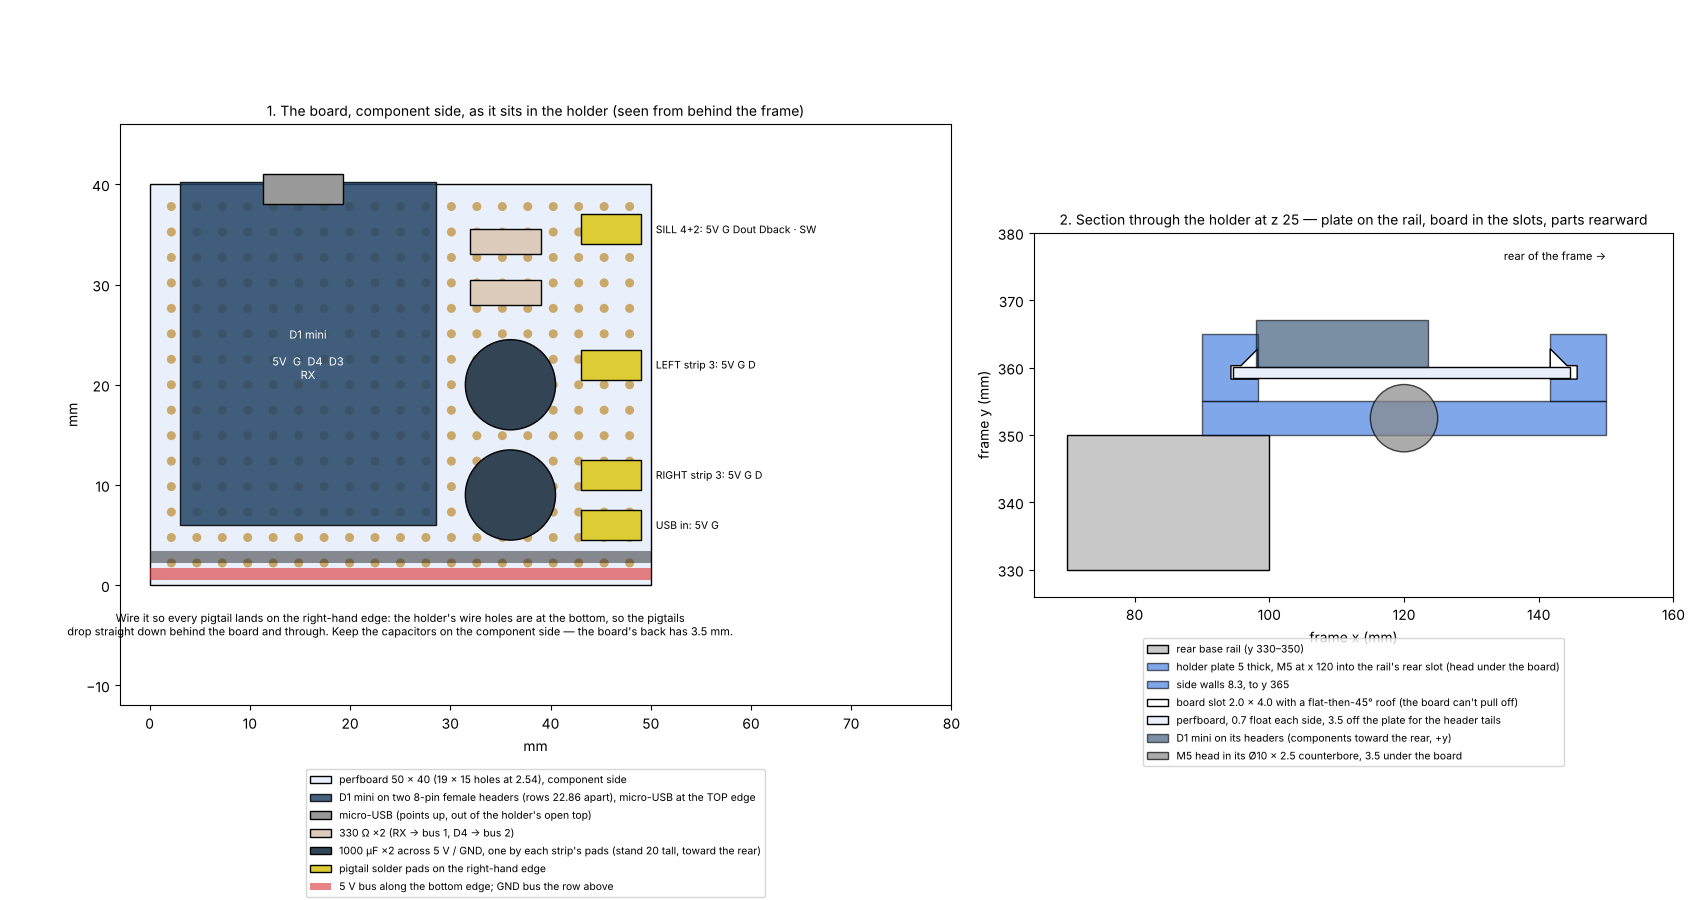
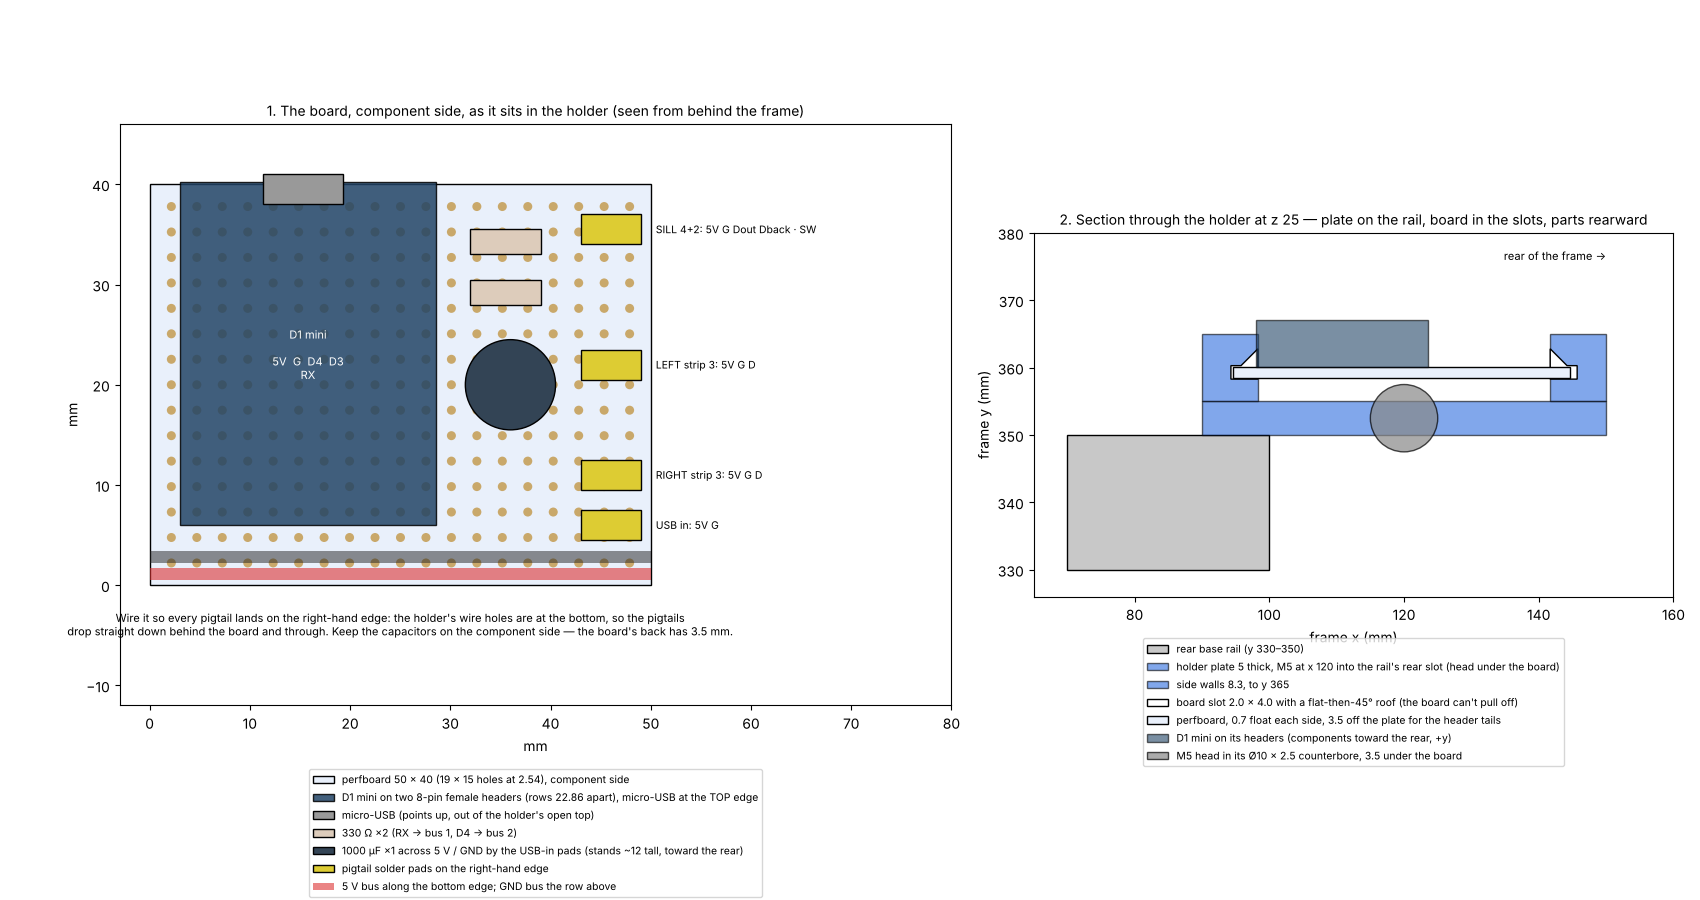
Wiring v1.1: two sill pixels (bus 1 = 30 LEDs), one 1000 uF at the USB input
Gareth, 2026-10-16: both pixel slots in the sill block get a pixel (chained, LEDs 0-1)
so both halves of the window light past the button's nut; left strip is LEDs 2-29,
right 30-57, WLED segments shifted to match. One 1000 uF across 5 V / GND at the
board's USB-in pads replaces the two — both strip feeds leave the same bus on the
board, so a second cap there adds nothing. Sheets 1 and 3 and the ROADMAP status
line re-issued.

Claude-Session: https://claude.ai/code/session_01HGhv4nQNGWCz3Z7whFNXp4

Changed region(s): [[0.1871, 0.84, 0.4676, 0.9956], [0.2494, 0.4978, 0.3429, 0.6222]]

diff --git a/src/wiring_sheet.py b/src/wiring_sheet.py
@@ -44,7 +44,7 @@ def sheet_schematic():
     wire(ax, [(92, 96), (95, 96)], CDAT, 2); wire(ax, [(104, 96), (122, 96)], CDAT, 2, label="data (28 AWG)")
     wire(ax, [(92, 84), (95, 84)], CDAT, 2); wire(ax, [(104, 84), (117, 84), (117, 46), (122, 46)], CDAT, 2)
     wire(ax, [(92, 88), (119, 88), (119, 92), (122, 92)], CSW, 2, label="button switch (28 AWG) → D3; its other side to GND inside the block")
-    bx(ax, 94, 62, 12, 8, "1000 µF ×2\nacross 5 V / GND", fc="#fff", fs=6.5)
+    bx(ax, 94, 62, 12, 8, "1000 µF ×1\nacross 5 V / GND", fc="#fff", fs=6.5)
     ax.text(85, 56.5, "pigtail solder pads on the right-hand edge; 5 V and GND bussed along the bottom edge", ha="center", fontsize=7, style="italic")
     # 5 V and GND trunks down the right of the board, stubs to each load
     wire(ax, [(92, 102), (112, 102), (112, 44)], C5V, 2.5, label="5 V (24 AWG to the strips, 28 AWG to the sill)")
@@ -54,24 +54,24 @@ def sheet_schematic():
     wire(ax, [(112, 74), (100, 74), (100, 70)], C5V, 1.5); wire(ax, [(114, 76), (102, 76), (102, 70)], CGND, 1.5)   # caps hang on the trunks
     dot(112, 74, C5V); dot(114, 76, CGND)
     # loads
-    bx(ax, 122, 88, 38, 18, "SILL LEFT BLOCK (front left)\n5 mm WS2812 pixel = LED 0\n8 mm button with blue LED\n5 wires: 5 V · GND · data in · data out · switch", fc="#fdf3d6", fs=7.5)
-    bx(ax, 122, 64, 38, 14, "LEFT STRIP — 28 × WS2812B (LEDs 1–28)\nrear-left upright, inner face\nfed at its BOTTOM (z 20)", fc="#dff0ff", fs=7.5)
-    bx(ax, 122, 36, 38, 14, "RIGHT STRIP — 28 × WS2812B (LEDs 29–56)\nrear-right upright, inner face\nfed at its BOTTOM (z 20)", fc="#dff0ff", fs=7.5)
+    bx(ax, 122, 88, 38, 18, "SILL LEFT BLOCK (front left)\n2 × 5 mm WS2812 pixels = LEDs 0–1 (chained, one in each slot)\n8 mm button with blue LED\n5 wires: 5 V · GND · data in · data out · switch", fc="#fdf3d6", fs=7.5)
+    bx(ax, 122, 64, 38, 14, "LEFT STRIP — 28 × WS2812B (LEDs 2–29)\nrear-left upright, inner face\nfed at its BOTTOM (z 20)", fc="#dff0ff", fs=7.5)
+    bx(ax, 122, 36, 38, 14, "RIGHT STRIP — 28 × WS2812B (LEDs 30–57)\nrear-right upright, inner face\nfed at its BOTTOM (z 20)", fc="#dff0ff", fs=7.5)
     wire(ax, [(160, 94), (166, 94), (166, 74), (160, 74)], CDAT, 2)
-    ax.text(167, 84, "pixel data OUT →\nleft strip data IN\n(comes back down\nthe same slot)", fontsize=7, va="center", color=CDAT)
+    ax.text(167, 84, "pixel 2 data OUT →\nleft strip data IN\n(comes back down\nthe same slot)", fontsize=7, va="center", color=CDAT)
     ax.text(141, 86.2, "button LED: + to 5 V, − to GND inside the block (3–6 V type; always on)", ha="center", fontsize=6.8)
-    ax.text(141, 62.2, "bus 1 = RX (GPIO3): pixel + left strip = 29 LEDs", ha="center", fontsize=8, weight="bold")
+    ax.text(141, 62.2, "bus 1 = RX (GPIO3): 2 pixels + left strip = 30 LEDs", ha="center", fontsize=8, weight="bold")
     ax.text(141, 34.2, "bus 2 = D4 (GPIO2): right strip = 28 LEDs", ha="center", fontsize=8, weight="bold")
     ax.text(163, 79.5, "JST-SM 4-pin + 2-pin\n(the ones you have)", fontsize=6.8, va="top")
     ax.text(163, 69, "JST-SM 3-pin pair (on order)", fontsize=6.8, va="top"); ax.text(163, 41, "JST-SM 3-pin pair (on order)", fontsize=6.8, va="top")
     # WLED settings
     bx(ax, 2, 12, 80, 38, "", fc="#f7f7f7")
     ax.text(42, 47.5, "WLED settings (Config → LED Preferences)", ha="center", fontsize=9, weight="bold")
-    ax.text(4, 44.5, "LED outputs:\n  bus 1: WS281x, colour order GRB, GPIO 3, start 0, count 29\n  bus 2: WS281x, colour order GRB, GPIO 2, start 29, count 28\n"
-                     "Maximum PSU current: 1500 mA   (56 LEDs full white would draw 3.4 A — the limit dims them)\n"
+    ax.text(4, 44.5, "LED outputs:\n  bus 1: WS281x, colour order GRB, GPIO 3, start 0, count 30\n  bus 2: WS281x, colour order GRB, GPIO 2, start 30, count 28\n"
+                     "Maximum PSU current: 1500 mA   (58 LEDs full white would draw 3.5 A — the limit dims them)\n"
                      "Button 0: GPIO 0, type Pushbutton   (D3; WLED pulls it up, a press pulls it to GND)\n"
                      "Relay / status LED: none.   Serial debug is lost (RX drives bus 1) — updates go over the air.\n\n"
-                     "Segments (main page → Segments):\n  0 'halo'  LEDs 0–0      1 'left'  LEDs 1–28      2 'right'  LEDs 29–56\n"
+                     "Segments (main page → Segments):\n  0 'halo'  LEDs 0–1      1 'left'  LEDs 2–29      2 'right'  LEDs 30–57\n"
                      "Both strips are fed from the bottom, so both run upward — no 'reverse' needed.\n\n"
                      "First flash over the mini's own micro-USB at the desk BEFORE it goes in the holder, and put the\n"
                      "WiFi details in; everything after that is over the air (the micro-USB stays reachable in the holder).\n\n"
@@ -137,10 +137,10 @@ def sheet_runs():
     c.add_patch(R((20, 75.05), 310, 5.9, fc="white", ec="k", label="inner-face slot mouth, centre z 78"))
     for y0, y1 in ((20, 40), (310, 330)): c.add_patch(R((y0, 75.05), y1 - y0, 5.9, fc=RED, ec="k", alpha=0.5, label="hidden L-connector in the slot" if y0 == 20 else None))
     c.add_patch(R((45, 75), 260, 6, fc=BLUE, ec="k", label="cover A y 45–305 (one 240 + one 20)"))
-    c.add_patch(R((3, 87), 16.5, 12, fc="#777", ec="k", label="sill left block z 87–99: pixel legs and button wires leave its BOTTOM at x 34–58"))
+    c.add_patch(R((3, 87), 16.5, 12, fc="#777", ec="k", label="sill left block z 87–99: the two pixels' legs and the button wires leave its BOTTOM at x 34–58"))
     c.add_patch(R((336, 20), 8, 110, fc="#8bd", ec="k", alpha=0.6, label="LED strip on the rear-left upright's inner face, z 20–490, over its slot — fed at the BOTTOM"))
     c.add_patch(R((336, 20), 8, 3, fc=RED, ec="k", label="strip input (JST at z 20)"))
-    wire(c, [(19, 87), (19, 78), (20, 78), (20, 84), (42, 84), (42, 78), (308, 78), (308, 84), (330, 84), (335, 78), (340, 78), (340, -4), (355, -4)], CDAT, 2.5, label="SILL bundle: 5 wires (5 V, GND, data to the pixel, data back from it, switch) — to the board")
+    wire(c, [(19, 87), (19, 78), (20, 78), (20, 84), (42, 84), (42, 78), (308, 78), (308, 84), (330, 84), (335, 78), (340, 78), (340, -4), (355, -4)], CDAT, 2.5, label="SILL bundle: 5 wires (5 V, GND, data to the pixels, data back from them, switch) — to the board")
     wire(c, [(355, -2), (342, -2), (342, 20)], C5V, 2, label="left strip feed (5 V, GND) from the board")
     wire(c, [(338, 78), (338, 21)], CDAT, 1.5, ls="--", label="the pixel's data-back wire peels off the bundle and becomes the strip's data in")
     c.text(175, 110, "Bundle length block → board ≈ 510 mm: cut the five wires at 650. Cover A: 240 + 20 with scissors, stop 25 short of each rail end.\n"
@@ -160,7 +160,7 @@ def sheet_board():
     a.add_patch(R((11.3, 38), 8, 3, fc="#999", ec="k", label="micro-USB (points up, out of the holder's open top)"))
     a.text(15.8, 23, "D1 mini\n\n5V  G  D4  D3\nRX", ha="center", va="center", color="white", fontsize=8)
     a.add_patch(R((32, 33), 7, 2.5, fc="#dcb", ec="k", label="330 Ω ×2 (RX → bus 1, D4 → bus 2)")); a.add_patch(R((32, 28), 7, 2.5, fc="#dcb", ec="k"))
-    a.add_patch(C((36, 20), 4.5, fc="#345", ec="k", label="1000 µF ×2 across 5 V / GND, one by each strip's pads (stand 20 tall, toward the rear)")); a.add_patch(C((36, 9), 4.5, fc="#345", ec="k"))
+    a.add_patch(C((36, 20), 4.5, fc="#345", ec="k", label="1000 µF ×1 across 5 V / GND by the USB-in pads (stands ~12 tall, toward the rear)"))
     for z, lab in ((35.5, "SILL 4+2: 5V G Dout Dback · SW"), (22, "LEFT strip 3: 5V G D"), (11, "RIGHT strip 3: 5V G D"), (6, "USB in: 5V G")):
         a.add_patch(R((43, z - 1.5), 6, 3, fc=YEL, ec="k", label="pigtail solder pads on the right-hand edge" if z == 35.5 else None)); a.text(50.5, z, lab, fontsize=7.5, va="center")
     a.add_patch(R((0, 0.5), 50, 1.2, fc=RED, ec="none", alpha=0.6, label="5 V bus along the bottom edge; GND bus the row above")); a.add_patch(R((0, 2.2), 50, 1.2, fc=BLK, ec="none", alpha=0.5))

diff --git a/ROADMAP.md b/ROADMAP.md
@@ -19,10 +19,10 @@ Ticks follow the rule at the end of §2: a stage ticks only when its "Done when"
 - [ ] Stage 5 — sled. **Done:** feet, beams (front halves v2), front bar v3, cross bars v2, front rests v2, splices (printed pair cut to 100 = v2); **sag ☑ 2026-10-16**; 100 travel; beam clears the AWG. **Outstanding:** (a) **cable channel — not modelled** (x 20–46, now from y 201 behind the right splice, Ø4.3 holes on the pegs at x 33); (b) TPU stop caps in the scope rails' inner slots at the front — fit and confirm "stops hold" (travel 100 → 92); (c) sled-bar pull liner trial.
 - [ ] Stage 6 — box + channel. **Done:** box halves printed and joined. **Outstanding:** (a) corner braces v1 (`parts/box-brace-v1.stl` ×2) — print, CA into the cracked right wall and both front corners; (b) cable channel (Stage 5's); (c) the access sequence end to end — sled out, box lifted 7.5 over the right splice, out to the right, back — checked into the clear zone until the door exists; (d) meters fit in the box.
 - [ ] Stage 7 — skin. **Done:** band 1–3 tiles v1 printed (band 2 right stays v1); top panel + caps printed (D12). **Outstanding:** (a) side tiles v2 plates A2–E2 at the measured band heights (re-read the left PSU→AWG 135 to 0.1 first) — print and fit; (b) band 4 both sides — not modelled (left has no bottom rail to clip to; right = door + fixed rear tile); (c) door tile, second hinge pair, magnet bosses, L-bracket, fixed rear tile — not modelled; (d) top panel on the frame → D12 ☑.
-- [ ] Stage 8 — trim. **Done:** the TPU session (feet glued in, AWG pads, stop caps, six 240 covers); strip brackets mounted, Addtam hung; sill panel v3 + window printed. **Outstanding:** (a) sill blocks v4 left + right — print and fit (key in from the end before the panel); (b) upright caps on with the top panel (M5 × 10 ×4); (c) probe hanger — not modelled; (d) rear-right cable clips — not modelled (open item 4: confirm the AWG/PSU LAN/USB positions); (e) **lighting per D10 rev 3** (sheets `parts/wiring/wiring-1/2/3`): print `board-holder-v1` and bolt it on; build the 50 × 40 perfboard (D1 mini, 2 × 330 Ω, 2 × 1000 µF, pigtail pads); flash WLED over USB at the desk; stick the two 28-LED strips on the rear uprights' inner faces, input end at the bottom; lay the five sill wires, the two strip feeds and the USB lead per sheet 2; cut covers A (240 + 20), B1 (65), B2 (186); parts in hand bar the two 3-pin JST-SM pairs (ordered); (f) three IEC leads routed, scope loop takes the 100 travel.
+- [ ] Stage 8 — trim. **Done:** the TPU session (feet glued in, AWG pads, stop caps, six 240 covers); strip brackets mounted, Addtam hung; sill panel v3 + window printed. **Outstanding:** (a) sill blocks v4 left + right — print and fit (key in from the end before the panel); (b) upright caps on with the top panel (M5 × 10 ×4); (c) probe hanger — not modelled; (d) rear-right cable clips — not modelled (open item 4: confirm the AWG/PSU LAN/USB positions); (e) **lighting per D10 rev 3** (sheets `parts/wiring/wiring-1/2/3`): print `board-holder-v1` and bolt it on; build the 50 × 40 perfboard (D1 mini, 2 × 330 Ω, 1 × 1000 µF, pigtail pads); flash WLED over USB at the desk; stick the two 28-LED strips on the rear uprights' inner faces, input end at the bottom; lay the five sill wires, the two strip feeds and the USB lead per sheet 2; cut covers A (240 + 20), B1 (65), B2 (186); parts in hand bar the two 3-pin JST-SM pairs (ordered); (f) three IEC leads routed, scope loop takes the 100 travel.
 - [ ] Stage 9 — close-out (HANDOVER v19, viewer/layout regenerated — `viewer_boxes.json` sub-frame at x 253.7 and flush — STLs archived, the complete .3mf, the build guide, the write-up)
 
-**Print job 2026-10-16 — the lighting board holder: `parts/wiring/board-holder-v1.stl`** (any PETG, plate face down as exported, no brim, no support, 60 × 44 × 15, 19.7 cm³; hardware **1 × M5 × 10 + 1 drop-in T-nut**, into the rear base rail's REAR slot at x 120). **Status 2026-10-16: lighting wiring v1 — D10 rev 3** (`src/wiring_sheet.py` → `parts/wiring/wiring-1-schematic.png` what connects to what + the WLED settings, `wiring-2-runs.png` where every wire goes, `wiring-3-board.png` the perfboard and the holder section; `src/parts/board_holder.py`). Decisions, all Gareth's on the night: **the controller is a Wemos D1 mini** (ESP8266, WLED's usual board — the XIAO is not needed; the S3 only bought sound-reactive and BLE, unused); **it lives on the rear face of the rear base cross rail** (x 90–150, z 0–44), not beside the Addtam — the rear-left upright has no free face (strip inside, Addtam behind, tiles outside) and every run in the build already ends at that corner; the rail's rear slot is empty (its connectors are on the front face), so the wires run in it under TPU covers and come through two Ø6.5 holes in the holder's plate either side of the T-nut. **Two WLED buses:** bus 1 on RX (GPIO3, DMA) = the sill's 5 mm pixel (LED 0) then the LEFT strip (1–28) — the pixel's data OUT comes back down the left PSU rail's slot and becomes the strip's data IN; bus 2 on D4 (GPIO2) = the RIGHT strip (29–56). Both strips are fed at their BOTTOM ends (z 20) so both run upward — no top-rail run, no reverse. Button on D3 (GPIO0); **the button is an 8 mm momentary with a 3–6 V blue LED (4 pins, fits the v4 block as printed)** — LED straight across 5 V / GND inside the block as a locator glow; the pixel stays the WLED indicator. **Five 28 AWG wires in the PSU rail's slot** (5 V, GND, data to the pixel, data back, switch; the LED's − and the switch's other side go to GND in the block), 24 AWG for the strips' 5 V / GND, 330 Ω in each data line and a 1000 µF across each bus's 5 V on the board, WLED current limit 1500 mA. The USB lead (Addtam's ports are at its TOP end) runs down the strip's right-hand edge to the holder — the only wire in the open, behind the frame. Under-rail passes at the two rear corners (6 mm on the TPU feet, beside the pads). Lengths: sill bundle ≈ 510 → cut 650; left strip feed → 200; right strip feed → 320; USB → 550. **Cover run B moves to the rear base rail's REAR slot** as B1 (x 25–90, 65) and B2 (x 150–336, 186); `tpu-where-3` re-issued; A stays 240 + 20. Covers used 511 of 1440. Holder proven: 0 cm³ against the rail, the Addtam, its bracket and shelf, its cable drop and the feet; the board (0.7 float a side) is held by the slot roofs when pulled off the plate, sits on the 3 mm ledge, slides out the top; the M5 head has 3.5 under the board. JST: the two 3-pin pairs are the only parts not in hand (ordered 2026-10-16); the sill uses an existing 4-pin + 2-pin.
+**Print job 2026-10-16 — the lighting board holder: `parts/wiring/board-holder-v1.stl`** (any PETG, plate face down as exported, no brim, no support, 60 × 44 × 15, 19.7 cm³; hardware **1 × M5 × 10 + 1 drop-in T-nut**, into the rear base rail's REAR slot at x 120). **Status 2026-10-16: lighting wiring v1 — D10 rev 3** (`src/wiring_sheet.py` → `parts/wiring/wiring-1-schematic.png` what connects to what + the WLED settings, `wiring-2-runs.png` where every wire goes, `wiring-3-board.png` the perfboard and the holder section; `src/parts/board_holder.py`). Decisions, all Gareth's on the night: **the controller is a Wemos D1 mini** (ESP8266, WLED's usual board — the XIAO is not needed; the S3 only bought sound-reactive and BLE, unused); **it lives on the rear face of the rear base cross rail** (x 90–150, z 0–44), not beside the Addtam — the rear-left upright has no free face (strip inside, Addtam behind, tiles outside) and every run in the build already ends at that corner; the rail's rear slot is empty (its connectors are on the front face), so the wires run in it under TPU covers and come through two Ø6.5 holes in the holder's plate either side of the T-nut. **Two WLED buses:** bus 1 on RX (GPIO3, DMA) = the sill's two 5 mm pixels (LEDs 0–1, one in each slot of the block, chained) then the LEFT strip (2–29) — the second pixel's data OUT comes back down the left PSU rail's slot and becomes the strip's data IN; bus 2 on D4 (GPIO2) = the RIGHT strip (30–57). Both strips are fed at their BOTTOM ends (z 20) so both run upward — no top-rail run, no reverse. Button on D3 (GPIO0); **the button is an 8 mm momentary with a 3–6 V blue LED (4 pins, fits the v4 block as printed)** — LED straight across 5 V / GND inside the block as a locator glow; the pixels stay the WLED indicator (two, so both halves of the window light evenly past the button's nut). **Five 28 AWG wires in the PSU rail's slot** (5 V, GND, data to the pixel, data back, switch; the LED's − and the switch's other side go to GND in the block), 24 AWG for the strips' 5 V / GND, 330 Ω in each data line and ONE 1000 µF across 5 V / GND at the board's USB input (both feeds leave the same bus; 220–470 would do, Gareth is using a 1000), WLED current limit 1500 mA. The USB lead (Addtam's ports are at its TOP end) runs down the strip's right-hand edge to the holder — the only wire in the open, behind the frame. Under-rail passes at the two rear corners (6 mm on the TPU feet, beside the pads). Lengths: sill bundle ≈ 510 → cut 650; left strip feed → 200; right strip feed → 320; USB → 550. **Cover run B moves to the rear base rail's REAR slot** as B1 (x 25–90, 65) and B2 (x 150–336, 186); `tpu-where-3` re-issued; A stays 240 + 20. Covers used 511 of 1440. Holder proven: 0 cm³ against the rail, the Addtam, its bracket and shelf, its cable drop and the feet; the board (0.7 float a side) is held by the slot roofs when pulled off the plate, sits on the 3 mm ledge, slides out the top; the M5 head has 3.5 under the board. JST: the two 3-pin pairs are the only parts not in hand (ordered 2026-10-16); the sill uses an existing 4-pin + 2-pin.
 
 **Print job 2026-10-15 — sled splice bars: `parts/sled-splice-v2.stl` ×2** (black ABS or PETG, flat as exported, **100** × 25.5 × 7.5, 19 cm³ each, no brim, no support — **v2 2026-10-16: 100 long, y 88.5–188.5. v1's 111.5 ran to y 200, under the rear box's floor (the box starts at y 195), and stopped the box sliding home — Gareth cut the printed pair to 100; v1 STL withdrawn** — beside any plate). **Status 2026-10-15 (bench, Gareth): the front rests v2 are fitted and the scope's front still sags, mainly with the sled pulled out — the give is at the P7 joint when it reaches the rest.** With the sled out 100 the rest's lip sits under beam y 121–161 and the joint (165) is right behind it: a tab joint is a hinge in bending, so the whole front half droops from there. **Splice (`src/parts/sled_splice.py`):** a 111.5 × 25.5 × 7.5 bar CA'd along the beam's OUTER strip (x 20.5–46, mirror on the right) from 0.5 behind the front-bar saddle (y 88.5) to y 188.5 (6.5 ahead of the box), over the joint and the bare span to the foot's front end; 7.5 tall because the scope body (x 27.7+) is at 355, the beam top 346. The left channel peg at (33, 150) passes through a Ø4.3 hole and locates it; one part serves both beams. Composite section ~5× the bare beam's stiffness over its length. Proven: 0 cm³ against both beam halves, the front bar + saddle, the front cross bar and the scope body; lowered 0.5 collides (flat on the beam); 0.6 forward butts the saddle. **Two costs, accepted:** (1) the right splice stands in the rear box's exit lane (sled out, box at y 95–230, floor 346) — **lift the box 7.5 mm as it crosses the right beam** (top to 464, door to 490); (2) the planned cable channel (x 20–46) **starts at y 201**, not 140 — unmodelled, nothing printed changes. **D13 (scope-back tray) withdrawn 2026-10-15:** the AWG's side vents sit under that gap; a tray there plus the scope would choke them. The corner braces stand.
 
